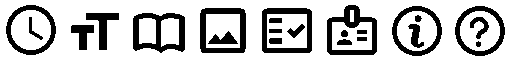
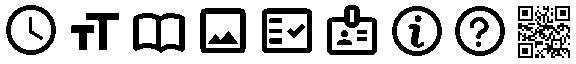
qrcode: Add example to badgerOS

diff --git a/micropython/examples/badger2040/qr_code.py b/micropython/examples/badger2040/qr_code.py
@@ -1,0 +1,35 @@
+import badger2040
+import qrcode
+import time
+
+display = badger2040.Badger2040()
+code = qrcode.QRCode()
+
+
+def measure_qr_code(size, code):
+    w, h = code.get_size()
+    module_size = int(size / w)
+    return module_size * w, module_size
+
+
+def draw_qr_code(ox, oy, size, code):
+    size, module_size = measure_qr_code(size, code)
+    display.pen(15)
+    display.rectangle(ox, oy, size, size)
+    display.pen(0)
+    for x in range(size):
+        for y in range(size):
+            if code.get_module(x, y):
+                display.rectangle(ox + x * module_size, oy + y * module_size, module_size, module_size)
+
+
+code.set_text("pimoroni.com/badger2040")
+size, _ = measure_qr_code(128, code)
+left = int((badger2040.WIDTH / 2) - (size / 2))
+top = int((badger2040.HEIGHT / 2) - (size / 2))
+draw_qr_code(left, top, 128, code)
+
+display.update()
+
+while True:
+    time.sleep(1.0)

diff --git a/micropython/examples/badger2040/launcher.py b/micropython/examples/badger2040/launcher.py
@@ -16,6 +16,7 @@ font_size = 1
 inverted = False
 
 icons = bytearray(launchericons.data())
+icons_width = 576
 
 examples = [
     ("_clock", 0),
@@ -24,6 +25,7 @@ examples = [
     ("_image", 3),
     ("_list", 4),
     ("_badge", 5),
+    ("_qr_code", 8),
     ("_info", 6),
     ("_help", 7)
 ]
@@ -139,9 +141,9 @@ def render():
     for i in range(max_icons):
         x = centers[i]
         label, icon = examples[i + (page * 3)]
-        label = label[1:]
+        label = label[1:].replace("_", " ")
         display.pen(0)
-        display.icon(icons, icon, 512, 64, x - 32, 24)
+        display.icon(icons, icon, icons_width, 64, x - 32, 24)
         w = display.measure_text(label, font_sizes[font_size])
         display.text(label, x - int(w / 2), 16 + 80, font_sizes[font_size])
 
